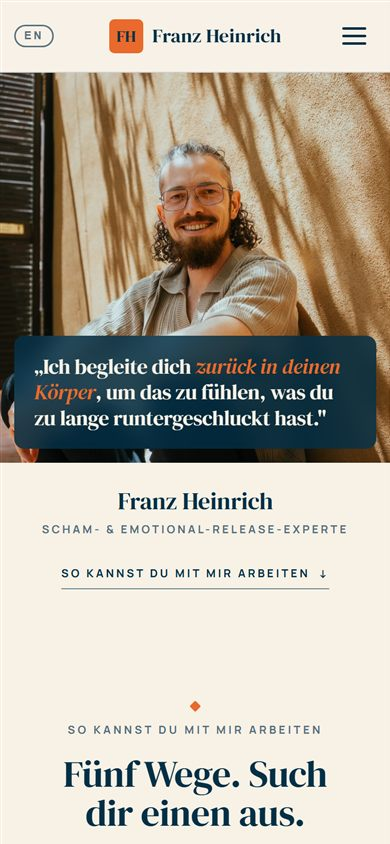
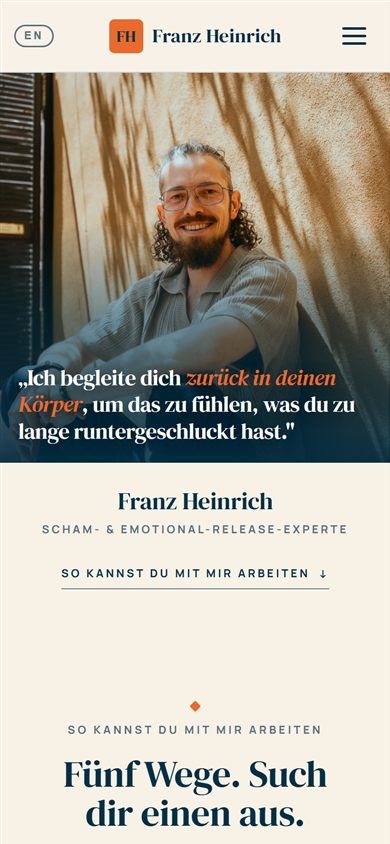
Kopf: Zitat in weisser Schrift direkt auf dem Bild (keine Tafel), Desktop links ueber den Laeden, Handy unten mit Verlauf

Changed region(s): [[0.0, 0.2773, 1.0, 0.5545]]

diff --git a/vorschau.html b/vorschau.html
@@ -104,7 +104,7 @@
       die Sessions als Timeline, „Das ist drin" bei der Begleitung, Google ganz unten — und die Seite
       spricht jetzt auch Englisch.</p>
       <p class="lead mt-2"><strong>Neu seit dem 16. September:</strong> Das Video ganz oben ist vorerst raus. Stattdessen begrüßt
-        dein Foto vor der Sandwand, dein Zitat liegt als Tafel auf dem Bild (neben dir, nie über deinem Gesicht),
+        dein Foto vor der Sandwand, dein Zitat liegt in weißer Schrift auf dem Bild (neben dir, nie über deinem Gesicht),
         darunter stehen dein Name und dein Titel — und der Link zu den fünf Wegen.
         Das Menü ist jetzt: EN · Über mich · For Free · Logo · So kannst du mit mir arbeiten · Kennenlern-Call.</p>
     <p class="mt-2"><a class="btn btn-orange btn-arrow" href="index.html">Deine Seite ansehen</a></p>
@@ -128,7 +128,7 @@
           <tr><td>Logo: „nichts Besonderes, aber passt"</td><td class="ok">Bleibt. Wenn du irgendwann ein richtiges willst, sag Bescheid.</td></tr>
           <tr><td>Übersicht „So kannst du mit mir arbeiten": Begleitung, 1:1, Events &amp; Retreats, Gruppen, Free — als Rad oder Kreise mit Bild und Text</td><td class="ok"><em>Fünf Kreise</em> direkt unter dem Video: Bild, Titel, ein Satz, Link. „Kostenlos" ist gestrichelt umrandet, damit es sich abhebt. Das drehbare Rad haben wir bewusst nicht gebaut — am Handy sind Kreise klarer und schneller.</td></tr>
           <tr><td>Leiste oben: Über mich · Shop · Logo · So kannst du mit mir arbeiten (als Raster) · Kontakt — plus Icons für Instagram, Mail, Spotify</td><td class="ok">Seit dem 16. September in dieser Reihenfolge: <em>EN · Über mich · For Free · Logo · So kannst du mit mir arbeiten ▾ · Kennenlern-Call</em>. Das Raster klappt weiter auf (Begleitung, 1:1 Sessions, Events &amp; Retreats, Gruppenangebote, Kostenlos, jeweils mit Bild). „Kontakt" ist als Menüpunkt raus — der Call-Knopf führt dorthin. Die drei Icons stehen im Handy-Menü und beim Kontakt.</td></tr>
-          <tr><td>Kennenlern-Call oben rechts — aber nicht „so direkt in die Fresse"</td><td class="ok">Der Knopf sitzt oben rechts. Ganz oben steht jetzt dein Foto mit deinem Zitat als Tafel darauf, darunter Name und Titel und nur der kleine Link „So kannst du mit mir arbeiten". Der orange Call-Knopf kommt erst bei „Dein Weg", nach der Erklärung.</td></tr>
+          <tr><td>Kennenlern-Call oben rechts — aber nicht „so direkt in die Fresse"</td><td class="ok">Der Knopf sitzt oben rechts. Ganz oben steht jetzt dein Foto mit deinem Zitat in weißer Schrift darauf, darunter Name und Titel und nur der kleine Link „So kannst du mit mir arbeiten". Der orange Call-Knopf kommt erst bei „Dein Weg", nach der Erklärung.</td></tr>
           <tr><td>„Dein Weg" — bist du unschlüssig</td><td class="offen">Bleibt drin, weiter unten. Schau es dir mit dem neuen Aufbau an — wenn es weg soll, ist es ein Handgriff.</td></tr>
           <tr><td>Alle-Links-Seite nur in Orange und Blau</td><td class="ok">Umgefärbt: Navy-Grund, orange Rahmen, die wichtigste Kachel orange.</td></tr>
           <tr><td>Sessions: deine Timeline statt der drei Schritte; Vor Ort / Online / Zeit / Preis; „Eine Session von innen" und das FAQ behalten; „für wen" raus</td><td class="offen">Timeline-Layout steht mit fünf Stationen als Platzhalter, darüber die Fakten-Leiste <em>Vor Ort · Online · Zeit · Preis</em>. FAQ bleibt, „für wen" ist raus. <strong>Achtung:</strong> Das PDF, das bei uns ankam, sind deine AGB — nicht die Timeline. Schick sie bitte noch einmal.</td></tr>
@@ -200,7 +200,7 @@
       </figure>
       <figure>
         <img src="assets/vorschau/neu-handy.jpg" width="390" height="844" loading="lazy" alt="Die neue Seite am Smartphone: Video-Bühne, Überschrift und Namenszeile vollständig sichtbar">
-        <figcaption><strong>Neu</strong> — dein Foto randlos, das Zitat als Tafel am unteren Bildrand, dein Gesicht bleibt frei.</figcaption>
+        <figcaption><strong>Neu</strong> — dein Foto randlos, das Zitat in weißer Schrift am unteren Bildrand, dein Gesicht bleibt frei.</figcaption>
       </figure>
     </div>
   </div>

diff --git a/assets/site.css b/assets/site.css
@@ -820,16 +820,18 @@ body.links-navy h1,body.links-navy h2,body.links-navy h3{color:var(--cream)}
 /* Michael 16.09.: im Desktop-Header kein FH-Zeichen — nur Name + Zeile. Am Handy bleibt es (Marke als Zeile). */
 @media (min-width:1181px){.masthead .brand .mark{display:none}}
 
-/* ---- 45 · Zitat auf dem Bild (Michael 16.09.) -----------------------------
-   Navy-Tafel mit Weichzeichner, nie über dem Gesicht: Desktop oben rechts auf
-   der freien Wand neben Franz, Handy unten am Bildrand. Darunter Name + Titel. */
+/* ---- 45 · Zitat auf dem Bild (Michael 16.09.: „in weißer Schrift über das Bild") ---------
+   Weißer Text direkt auf dem Foto, ohne Tafel. Lesbarkeit: Desktop links über den dunklen
+   Fensterläden mit sanftem Navy-Verlauf, Handy unten mit Verlauf zum Bildrand. Nie über dem Gesicht. */
 .kopf-bild{position:relative}
-.kopf-zitat{position:absolute;left:14px;right:14px;bottom:14px;padding:18px 20px;
-  background:rgba(2,48,71,.82);backdrop-filter:blur(10px);-webkit-backdrop-filter:blur(10px);
-  border-radius:var(--radius);color:var(--cream);text-align:left}
-.kopf-zitat h1{margin:0;max-width:none;font-size:clamp(20px,5.4vw,25px);line-height:1.22;color:var(--cream);text-align:left;text-wrap:pretty}
+.kopf-bild::after{content:"";position:absolute;inset:0;z-index:0;pointer-events:none;
+  background:linear-gradient(180deg,rgba(2,48,71,0) 38%,rgba(2,48,71,.45) 62%,rgba(2,48,71,.88) 100%)}
+.kopf-zitat{position:absolute;z-index:1;left:18px;right:18px;bottom:18px;color:#fff;text-align:left}
+.kopf-zitat h1{margin:0;max-width:none;font-size:clamp(21px,5.6vw,26px);line-height:1.22;color:#fff;text-align:left;text-wrap:pretty;
+  text-shadow:0 2px 14px rgba(2,20,30,.55)}
 .kopf-zitat h1 em{color:var(--orange)}
 @media (min-width:900px){
-  .kopf-zitat{left:auto;bottom:auto;right:clamp(20px,3vw,44px);top:clamp(20px,3vw,44px);width:min(38%,29rem);padding:clamp(20px,2vw,32px)}
-  .kopf-zitat h1{font-size:clamp(20px,1.2vw+12px,30px)}
+  .kopf-bild::after{background:linear-gradient(100deg,rgba(2,48,71,.62) 0%,rgba(2,48,71,.34) 26%,rgba(2,48,71,0) 48%)}
+  .kopf-zitat{left:clamp(24px,3.4vw,52px);right:auto;bottom:auto;top:clamp(24px,3.4vw,52px);width:min(34%,26rem)}
+  .kopf-zitat h1{font-size:clamp(22px,1.35vw+12px,34px);line-height:1.18}
 }
